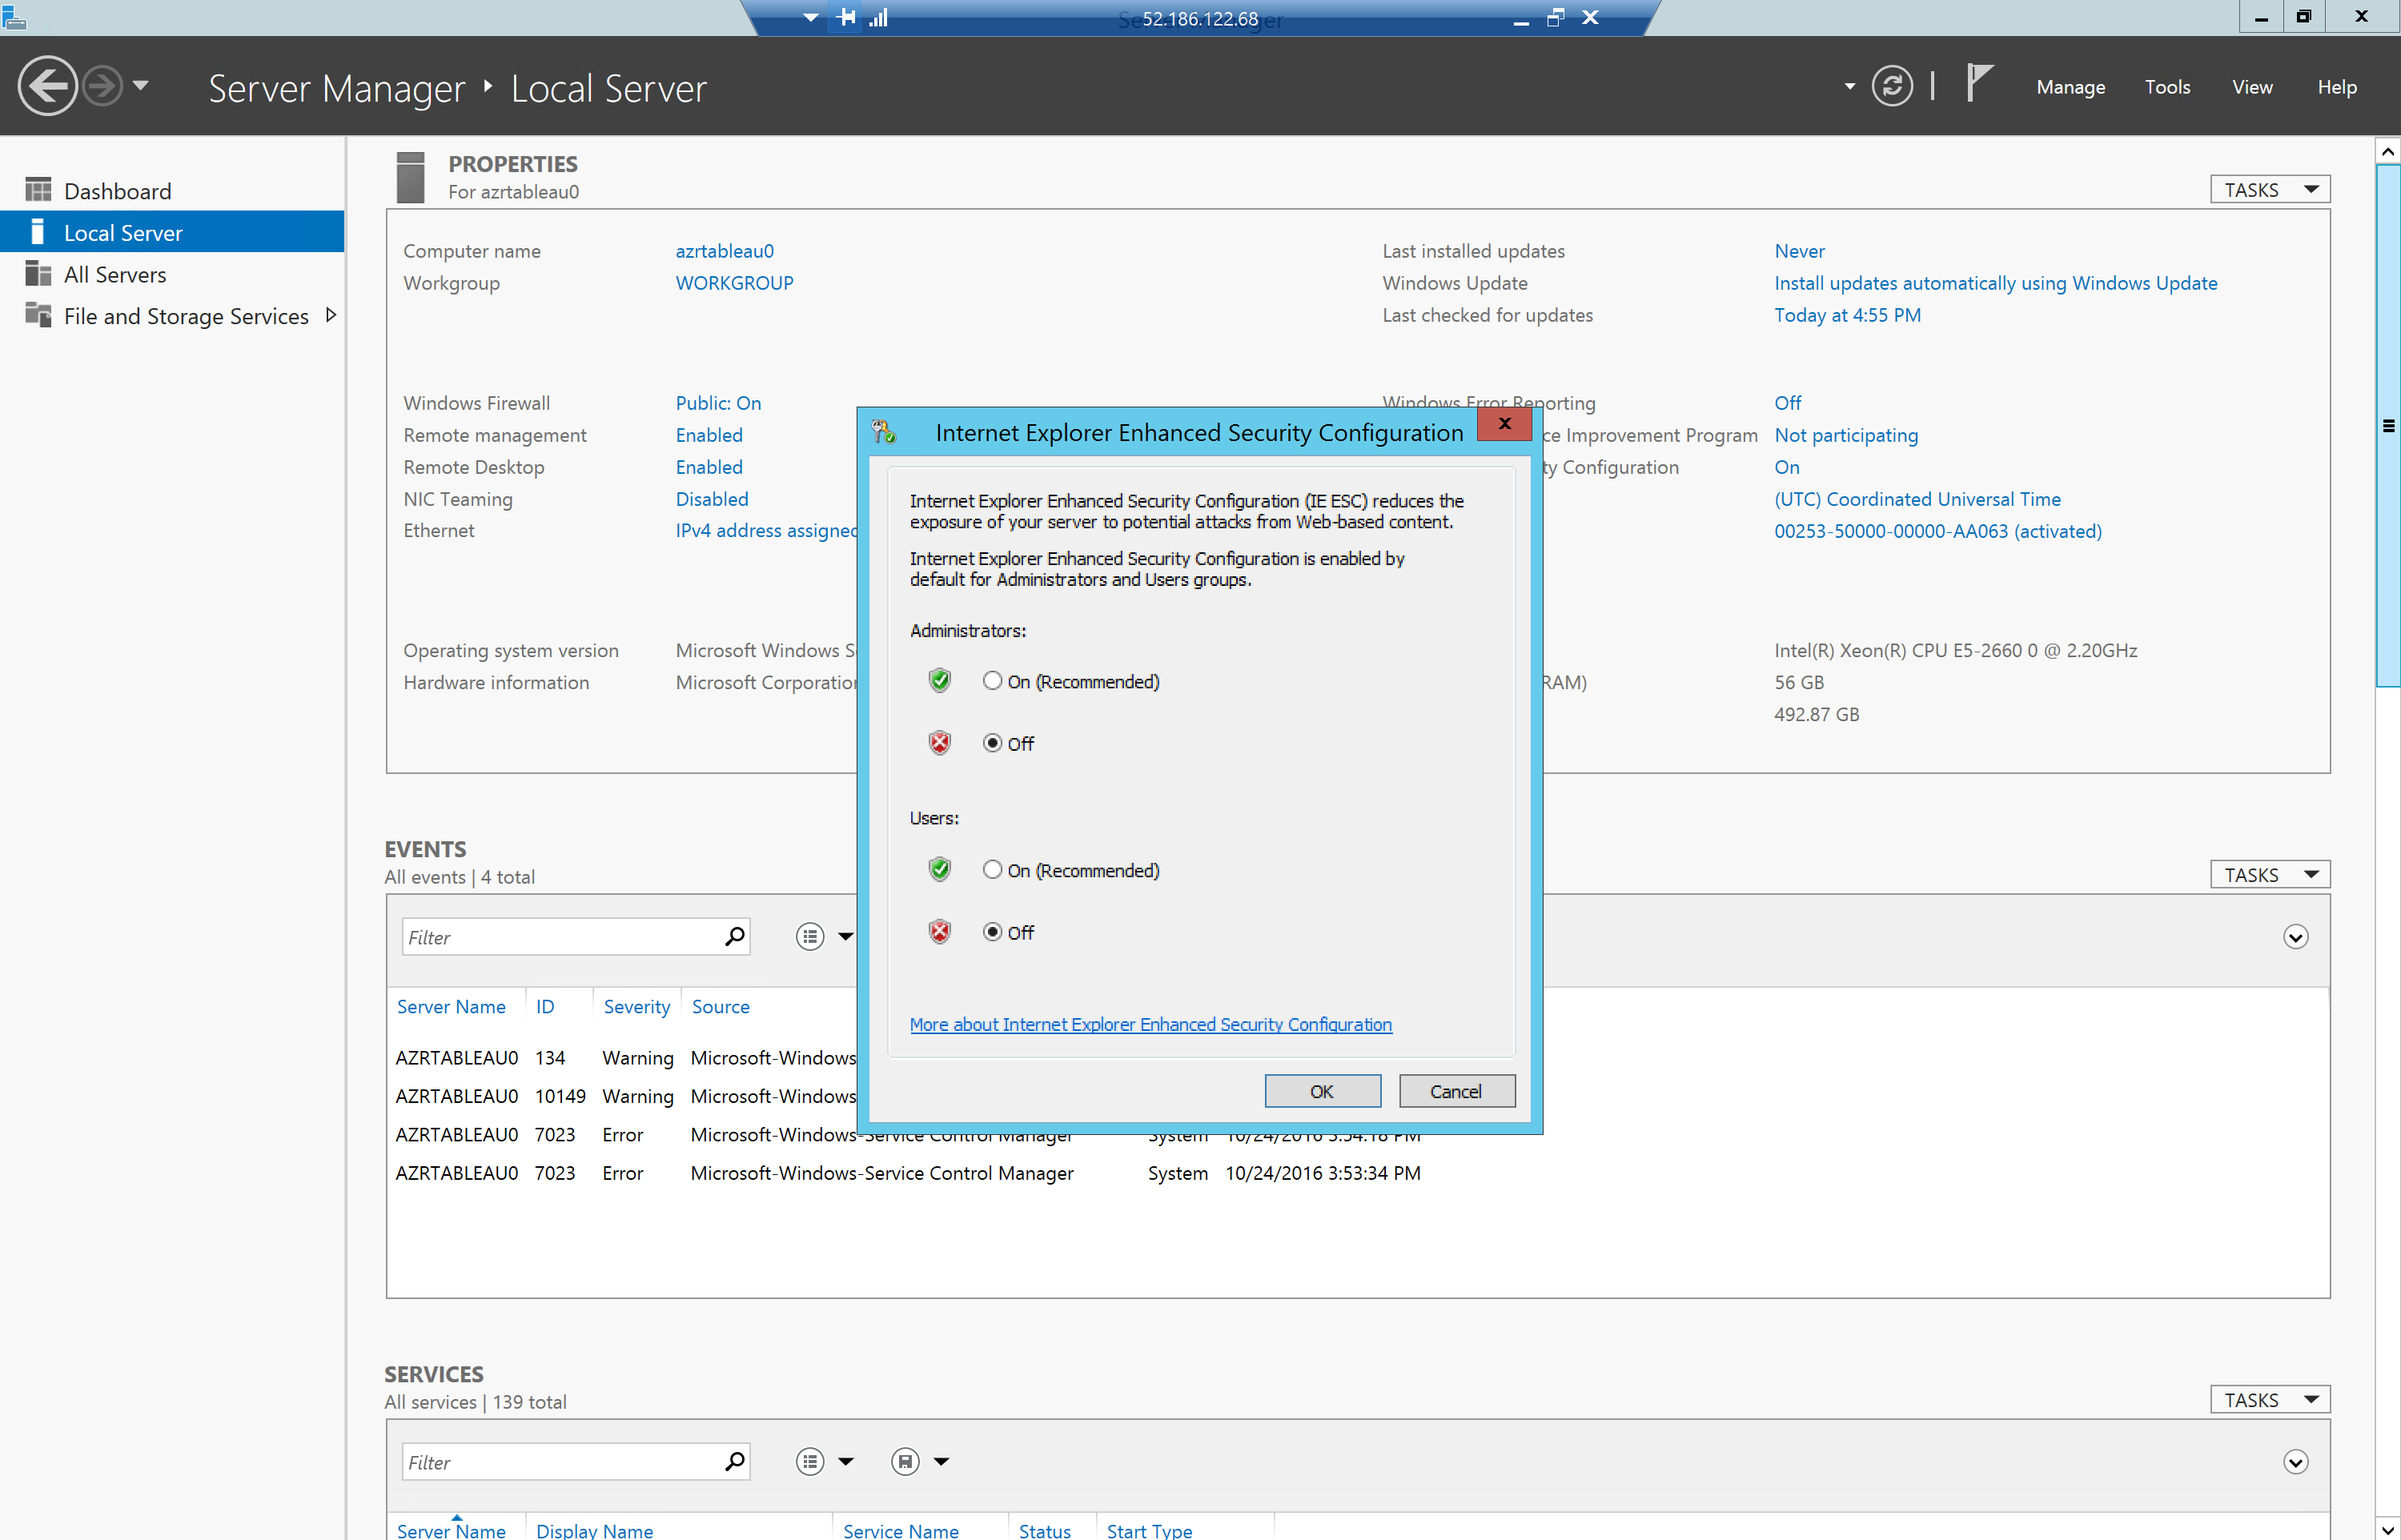
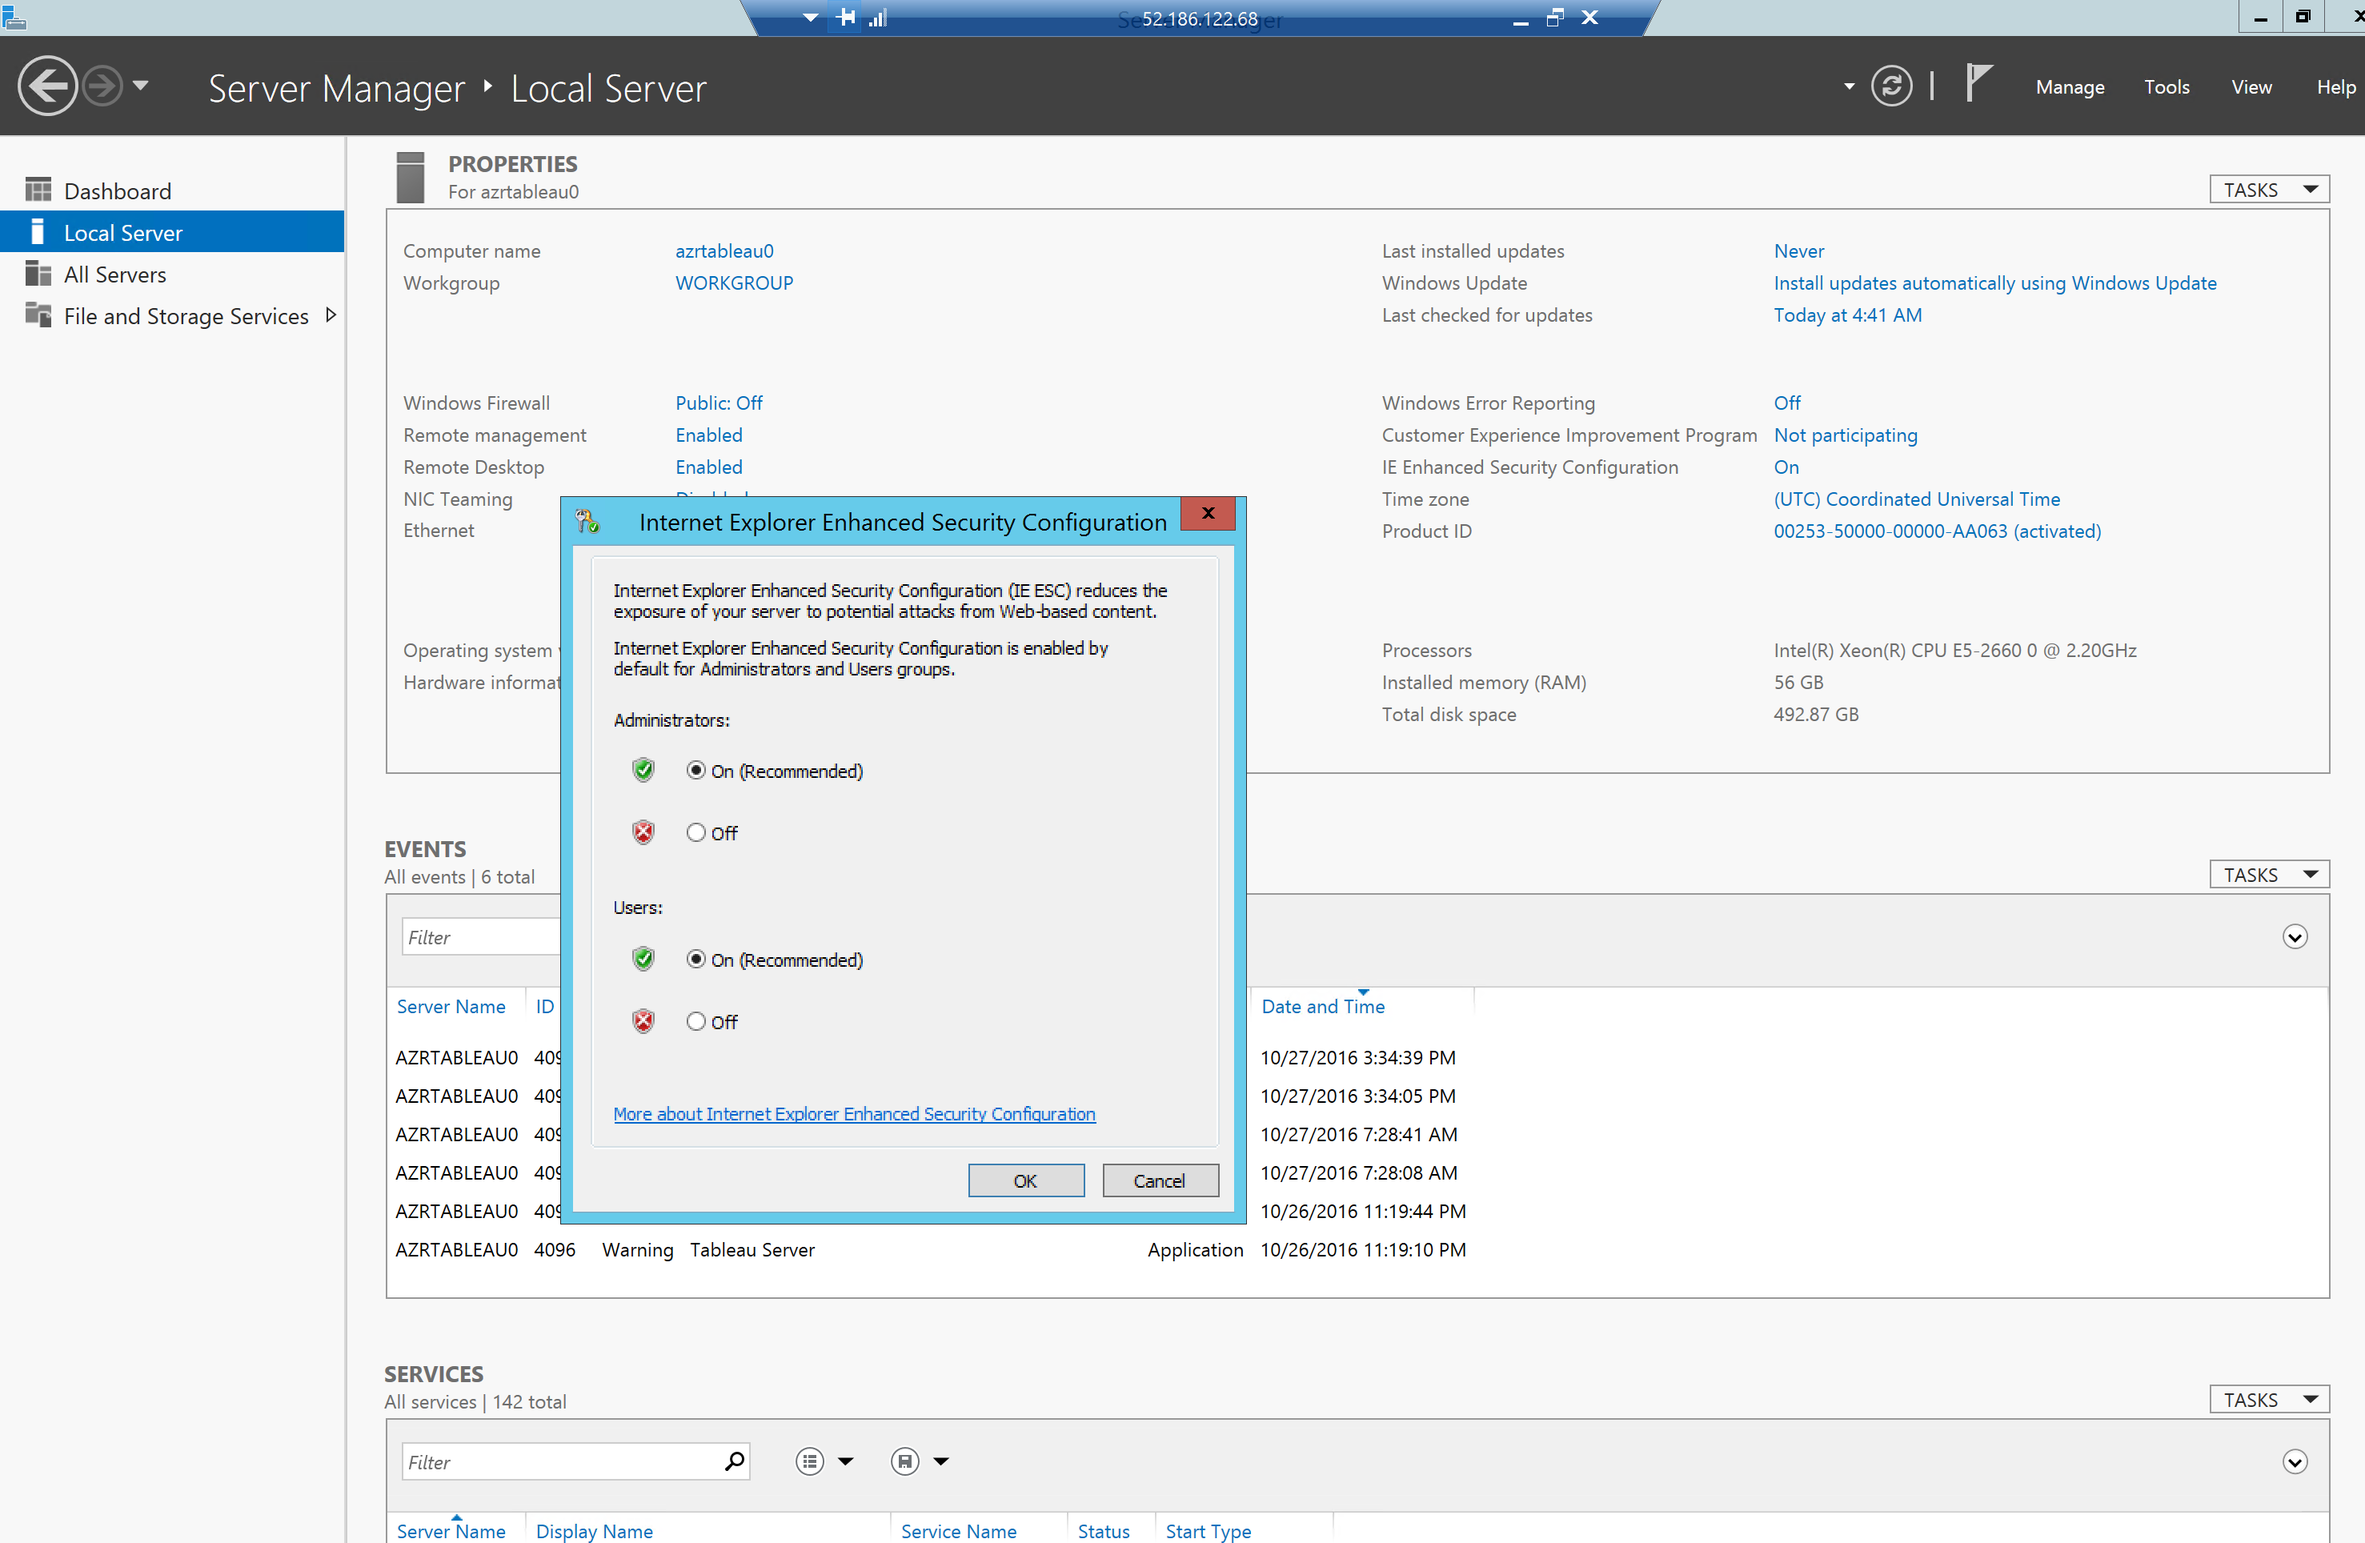
Some Updates

diff --git a/readme.md b/readme.md
@@ -68,18 +68,39 @@ License Key
 
 1. Sign in to the [Azure  portal](https://portal.azure.com).
 2. Navigate to the Resource Group you created
- ![Creating a new cluster in the Azure portal](./images/picture1.png "Resource Group for the Tableau Server cluster")
+ ![Resource Group for the Tableau Server cluster](./images/picture1.png "Resource Group for the Tableau Server cluster")
 
-1.  Connect to Primary Server 
-2.  Server Manager
+3.  Connect to Primary Server via Remote Desktop
+ ![Connecting / Logging into Primary](./images/picture2.png "Connecting / Logging into Primary")
+
+4.  Select 'Local Server' on Server Manager
+    (Say 'yes' to finding PCs, devices and content on this network)
+ ![Accessing Server Manager](./images/picture3.png "Accessing Server Manager")
+
 3.  Turn off IE Enhanced Security Configuration
-4.  Turn off Firewall (Private and Public)
-5.  Open IE
-Use recommended security, privacy, and compatibility settings
-6.  Go to http://www.tableau.com/support/esdalt
-7.  Download latest release of version 10.0 (TableauServer-64bit-10-0-2.exe)
-8.  Locate on drive, double-click to initial install, select 'Run', 'Next'
+ ![IE Enhanced Security Configuration](./images/picture4.png "IE Enhanced Security Configuration")
+
+4.  Turn off Windows Firewall (Private and Public)
+![Local Server - Firewall](./images/picture27.png "Local Server - Firewall")
+![Firewall Settings](./images/picture28.png "Firewall Settings")
+
+5.  Open Internet Explorer - Use recommended security, privacy, and compatibility settings
+![Launch Internet Explorer](./images/picture5.png "Launch Internet Explorer")
+
+6.  Navigate to [Tableau Alternate Downloads Site](http://www.tableau.com/support/esdalt)
+![Tableau alternate downloads site](./images/picture7.png "Tableau alternate downloads site")
+
+7.  Download Primary Networked Server: latest release of Tableau Server version 10.0 (TableauServer-64bit-10-0-2.exe)
+![Tableau Primary Networked Server download](./images/picture8.png "Tableau Primary Networked Server download")
+
+8.  Locate 'TableauServer-64bit-10-0-2.exe' on drive, double-click to initiate install, select 'Run', 'Next'
+![Download location](./images/picture9.png "Download location")
+![Run Install](./images/picture10.png "Run Install")
+
 9.  Change install location to striped drive [TableauData (F:)], 'ok', then 'Next'
+![Change install location](./images/picture10.png "Change install location")
+
+
 10. System Verification
 11. Accept License Agreement
 12. Default Start Menu Group, 'Next'
